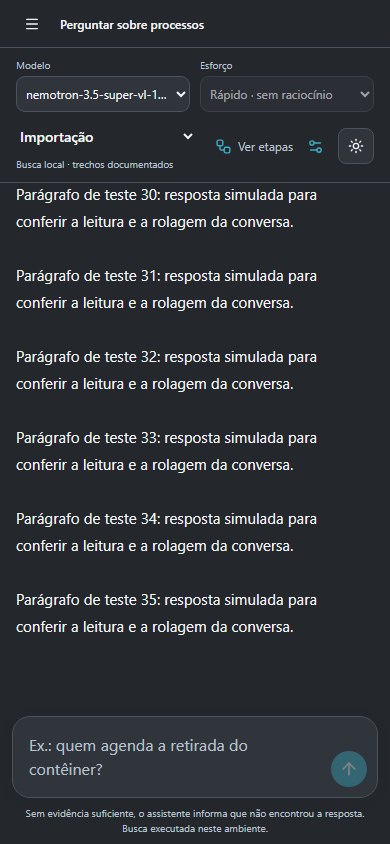
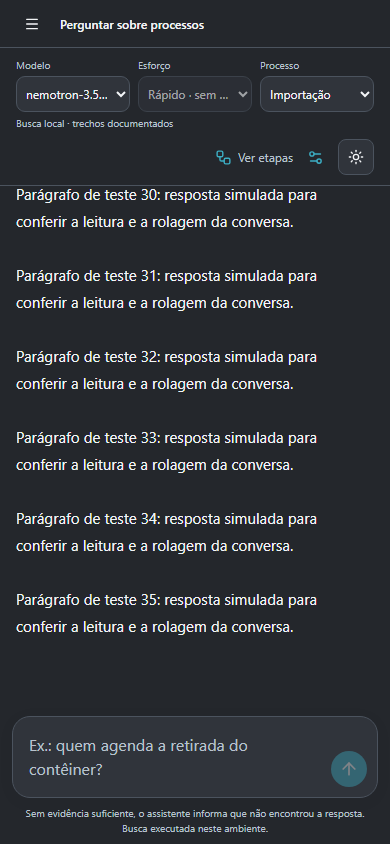
style: padronizar seletores modelo esforço e processo

diff --git a/frontend/src/styles.css b/frontend/src/styles.css
@@ -1571,13 +1571,13 @@ a:focus-visible { outline: 3px solid var(--ring); outline-offset: 2px; }
 .assistant-settings-test { border:1px solid var(--border); background:var(--secondary); color:var(--foreground); border-radius:8px; padding:11px; cursor:pointer; }
 .assistant-reply-mode { font-size:12px; color:var(--muted-foreground); margin-bottom:12px; }
 
-.assistant-model-controls { display:flex; gap:10px; flex:0 1 390px; min-width:0; flex-wrap:wrap; }
+.assistant-model-controls { display:grid; grid-template-columns:repeat(3,minmax(0,1fr)); gap:10px; min-width:0; width:100%; }
 .assistant-model-controls label { display:grid; gap:3px; flex:1; min-width:0; }
 .assistant-model-controls label > span { font-size:10px; color:var(--muted-foreground); }
-.assistant-model-controls select { width:100%; min-width:0; border:1px solid var(--border); border-radius:9px; background:var(--card); color:var(--foreground); font-size:12px; padding:8px 5px; text-overflow:ellipsis; }
+.assistant-model-controls select { width:100%; min-width:0; border:1px solid var(--border); border-radius:9px; background:var(--card); color:var(--foreground); font-size:12px; font-weight:400; height:36px; max-width:none; padding:8px 5px; text-overflow:ellipsis; }
 .assistant-model-controls select:disabled { opacity:.6; }
-.assistant-model-error { flex-basis:100%; margin:0; font-size:12px; color:var(--foreground); }
-.assistant-header-context { flex:1; }
+.assistant-model-error { grid-column:1 / -1; margin:0; font-size:12px; color:var(--foreground); }
+.assistant-header-context { flex:1; max-width:780px; }
 .assistant-loading span { white-space:nowrap; color:var(--muted-foreground); }
 @media (max-width:1100px) { .assistant-header-actions .assistant-settings-trigger span { display:none; } }
-@media (max-width:767px) { .assistant-model-controls { flex-basis:100%; } }
+@media (max-width:767px) { .assistant-header-context { flex-basis:100%; } .assistant-header-actions { margin-left:auto; } .assistant-model-controls { gap:8px; } }

diff --git a/frontend/src/components/AssistantPage.tsx b/frontend/src/components/AssistantPage.tsx
@@ -75,10 +75,10 @@ export function AssistantPage({ catalog }: { catalog: FrontendCatalog }) {
   return (
     <div className="assistant-page">
       <header className="assistant-header">
-        <AssistantModelControls configuration={configuration} pending={pending} onChanged={setConfiguration} />
         <div className="assistant-header-context">
-        <label className="assistant-scope"><span className="sr-only">Consultar processo</span>
-        <select value={processId} onChange={(event) => {
+        <AssistantModelControls configuration={configuration} pending={pending} onChanged={setConfiguration}>
+        <label className="assistant-scope"><span>Processo</span>
+        <select aria-label="Consultar processo" value={processId} onChange={(event) => {
           revision.current += 1; request.current?.abort(); setPending(false); setProcessId(event.target.value); setTurns([])
           conversation.current?.scrollTo({ top: 0 })
         }}>
@@ -86,6 +86,7 @@ export function AssistantPage({ catalog }: { catalog: FrontendCatalog }) {
           {catalog.processes.map((process) => <option key={process.id} value={process.id}>{process.name}</option>)}
         </select>
       </label>
+        </AssistantModelControls>
         <span className="assistant-local-status">{mode === 'nvidia-api' ? 'NVIDIA NIM · respostas com fontes' : mode === 'local-nim' ? 'NIM local · respostas com fontes' : mode === 'local-search' ? 'Busca local · trechos documentados' : 'Base de processos'}</span>
         </div>
         <div className="assistant-header-actions">

diff --git a/frontend/src/components/AssistantModelControls.tsx b/frontend/src/components/AssistantModelControls.tsx
@@ -1,10 +1,10 @@
-import { useState } from 'react'
+import { useState, type ReactNode } from 'react'
 import type { AssistantConfiguration } from './AssistantSettings'
 
 const labels: Record<string, string> = { none: 'Rápido · sem raciocínio', standard: 'Raciocínio ativado', default: 'Padrão do modelo' }
 
-export function AssistantModelControls({ configuration, pending, onChanged }: {
-  configuration: AssistantConfiguration | null; pending: boolean; onChanged: (value: AssistantConfiguration) => void
+export function AssistantModelControls({ configuration, pending, onChanged, children }: {
+  configuration: AssistantConfiguration | null; pending: boolean; onChanged: (value: AssistantConfiguration) => void; children?: ReactNode
 }) {
   const [saving, setSaving] = useState(false)
   const [error, setError] = useState('')
@@ -36,6 +36,7 @@ export function AssistantModelControls({ configuration, pending, onChanged }: {
       onChange={event => void change(model, event.target.value)}>
       {efforts.map(value => <option key={value} value={value}>{labels[value] || value}</option>)}
     </select></label>
+    {children}
     {error && <p className="assistant-model-error" role="alert">{error}</p>}
   </div>
 }

diff --git a/DECISIONS.md b/DECISIONS.md
@@ -642,3 +642,7 @@ A busca lexical local levou cerca de5ms no caso relatado. Contexto continha JSON
 Espera mostra nome do modelo e segundos, substituindo mensagem enganosa de consulta local durante chamada NVIDIA. Interromper espera aborta a requisição do navegador e ignora resultado obsoleto; não garante interrupção de trabalho/cobrança do provedor. Não exibe raciocínio interno. Validação:78 testes na suíte Python completa e20 específicos após último ajuste,29 Vitest/build, QA de modelo/esforço/persistência/pergunta/contador/interrupção e rolagem/painel, desktop/mobile/temas. API dos testes é simulada; consulta externa só ao catálogo. Acervo e chave real não alterados.
 
 Fontes oficiais verificadas em2026-10-22: https://docs.api.nvidia.com/nim/reference/nvidia-nemotron-3_5-super-vl-120b-a12b ; https://build.nvidia.com/nvidia/nemotron-3.5-lightning-30b-a3b/build . Próximo: usuário reiniciar npm run dev e avaliar seleção; medir latência/qualidade externa com conteúdo liberado, sem confundir payload menor com resposta garantidamente rápida.
+
+## DEC-055 — Modelo | Esforço | Processo no mesmo padrão (2026-10-22)
+
+Pedido explícito do usuário: três campos na ordem Modelo, Esforço, Processo, todos como seletores rotulados. Processo foi incorporado ao mesmo grid dos controles do modelo, preservando o seletor nativo e seu nome acessível Consultar processo. Altura36px, borda/fundo/tipografia uniformes; estado NVIDIA abaixo do grupo. Ordem preservada no celular. Nenhum comportamento do backend ou filtro de processo alterado. QA verifica ordem dos rótulos, mesma altura/topo, seleção P002 enviada ao chat e rolagem interna, em temas/desktop/mobile; build aprovado. APIs simuladas, sem acesso à chave real. Próximo: atualizar página e revisão do usuário.

diff --git a/PROJECT_STATUS.md b/PROJECT_STATUS.md
@@ -363,3 +363,7 @@ Build/29 Vitest OK. QA chat-layout primeiro reproduziu a página crescendo e dep
 Cabeçalho oferece Nemotron3.5 Super e Lightning (confirmados no catálogo NVIDIA), esforço Rápido/sem raciocínio ou Raciocínio ativado, conforme suporte on/off documentado. Modelo personalizado salvo também aparece, sem inventar capacidades. Preferências persistem sem reenviar chave/testar conexão; pergunta usa snapshot de modelo/esforço. Espera mostra modelo e segundos; Interromper espera aborta o fetch/espera local, sem prometer cancelar inferência externa.
 
 Busca medida em cerca de5ms. Contexto da pergunta do print caiu de9539 para3324 caracteres (65,2%) ao retirar IDs/metadados JSON, preservando procedimento/executor e condições. Citações continuam verificadas no Markdown original. Não houve benchmark externo comparativo nem promessa de latência; API continua podendo demorar. 78 Python na suíte completa,20 específicos após ajuste de condições,29 Vitest/build e QA model-controls/chat-layout/assistant-settings OK. APIs simuladas em QA; única consulta externa foi catálogo de modelos, sem documentos. Próximo: reiniciar npm run dev e revisar seletor; avaliar latência/qualidade reais com material liberado.
+
+## Marco 2026-10-22 — seletores padronizados (DEC-055)
+
+Cabeçalho reorganizado na ordem Modelo | Esforço | Processo, com rótulos visíveis, mesma altura e estilo nos três selects. Processo permanece escolhido pelo usuário e segue no payload da pergunta. Build e QA model-controls/chat-layout aprovados em temas/desktop/mobile, incluindo mudança para P002. Backend/chave/acervo intactos. Próximo: atualizar navegador e revisão visual.

diff --git a/.codex/HANDOFF.md b/.codex/HANDOFF.md
@@ -479,3 +479,7 @@ DEC-054. AssistantModelControls no cabeçalho: Super3.5/Lightning3.5, perfis non
 compact_context remove JSON/IDs e preserva procedimento/executor/condições. Prompt do caso do print:9539→3324 caracteres,65,2%; busca~5ms. Sem medir latência externa comparativa. Orçamento1400/8192 para direto/raciocínio. Espera mostra modelo+segundos; botão aborta fetch local, ignora resposta velha, não promete cancelar provedor. Streaming segue validado antes de apresentar texto.
 
 78 Python suíte completa,20 específicos após ajuste final de condições,29 Vitest/build/QA model-controls/chat-layout/assistant-settings OK. Testes de UI em Vite4174 com API simulada; sem envio de acervo. Catálogo NVIDIA foi a única chamada externa desta unidade. Chave real/.env.local não alterados. Capturas em docs/screenshots/model-controls e demais QA atualizadas. Próximo exato: encerrar Vite4174 de QA; usuário reiniciar npm run dev para carregar backend novo, revisar modelos/esforço e avaliar latência/qualidade com material liberado.
+
+## CHECKPOINT VIGENTE — trio de seletores padronizado (2026-10-22)
+
+DEC-055. Modelo | Esforço | Processo agora compartilham grid, rótulos visíveis e altura36px. AssistantModelControls recebe o campo de processo por children; AssistantPage preserva filtro/limpeza de conversa e aria-label Consultar processo. Status abaixo do grupo. Build/QA model-controls/chat-layout OK, incluindo ordem, alinhamento e pergunta enviada a P002, desktop/mobile/temas. Nenhuma alteração backend/chave/acervo. Próximo exato: encerrar Vite de QA4174 e usuário atualizar página; não exige reiniciar backend.

diff --git a/TASKS.md b/TASKS.md
@@ -357,3 +357,9 @@ O plano abaixo foi executado parcialmente nesta fase; a coluna Jira ficou penden
 - [x] Mostrar modelo/tempo de espera e permitir interromper a espera local.
 - [x] Validar suíte Python/targets,29 Vitest/build e QA de seletores/contador/cancelamento/layout/configurações.
 - [ ] Avaliar latência externa e qualidade sobre conteúdo liberado; redução de contexto não comprova redução de tempo da API.
+
+## Padrão dos três seletores — 2026-10-22
+
+- [x] Padronizar Modelo | Esforço | Processo com rótulos visíveis e dimensões consistentes.
+- [x] Validar escolha de processo na requisição, build, alinhamento e rolagem em desktop/mobile.
+- [ ] Revisão visual do usuário.
